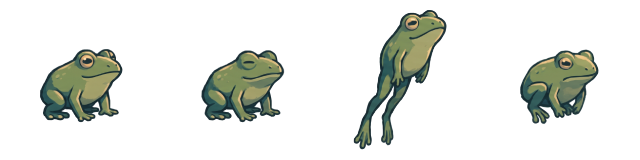
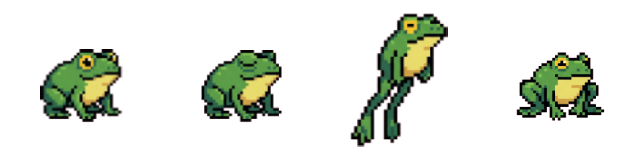
feat: update frog asset + animation sprite timing

diff --git a/src/client/game/game-runtime.ts b/src/client/game/game-runtime.ts
@@ -123,6 +123,7 @@ const FROG_FRAME_SIZE = 160
 const FROG_RENDER_SIZE = frogRadius * 4
 const FROG_VISUAL_Y_OFFSET = 24
 const FROG_FACING_DEAD_ZONE = 0.01
+const FROG_IDLE_ANIMATION_SPEED = 0.03
 const AIM_ARROW_LENGTH = 92
 const AIM_ARROW_HEAD_LENGTH = 28
 const AIM_ARROW_HALF_HEIGHT = 16
@@ -851,7 +852,7 @@ function setFrogFacing(
 function createFrogView(frogTextures: Texture[]): FrogView {
   const sprite = new AnimatedSprite([frogTextures[0], frogTextures[1]])
   sprite.anchor.set(0.5, 1)
-  sprite.animationSpeed = 0.06
+  sprite.animationSpeed = FROG_IDLE_ANIMATION_SPEED
   sprite.width = FROG_RENDER_SIZE
   sprite.height = FROG_RENDER_SIZE
   sprite.play()
@@ -1068,7 +1069,7 @@ export async function startGameRuntime(
   const frogTextures = createFrogTextures(frogTexture)
   const frog = new AnimatedSprite([frogTextures[0], frogTextures[1]])
   frog.anchor.set(0.5, 1)
-  frog.animationSpeed = 0.06
+  frog.animationSpeed = FROG_IDLE_ANIMATION_SPEED
   frog.width = FROG_RENDER_SIZE
   frog.height = FROG_RENDER_SIZE
   frog.play()
